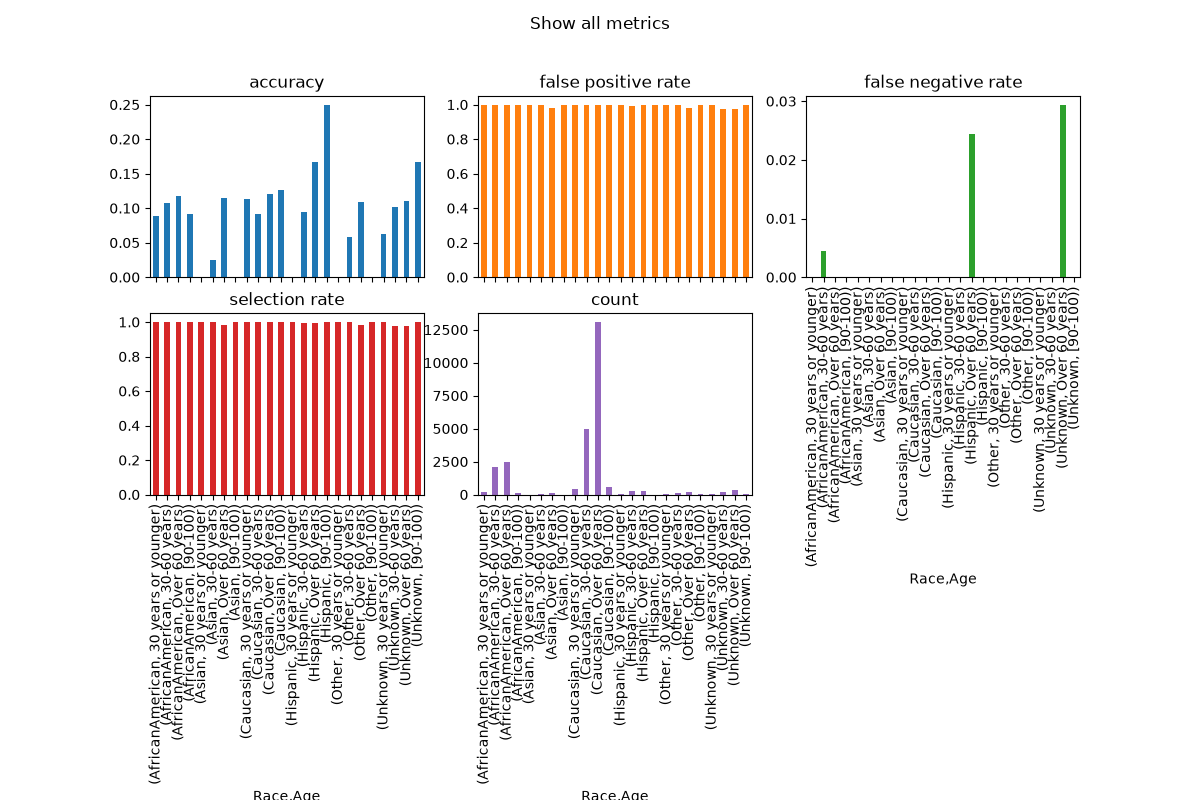
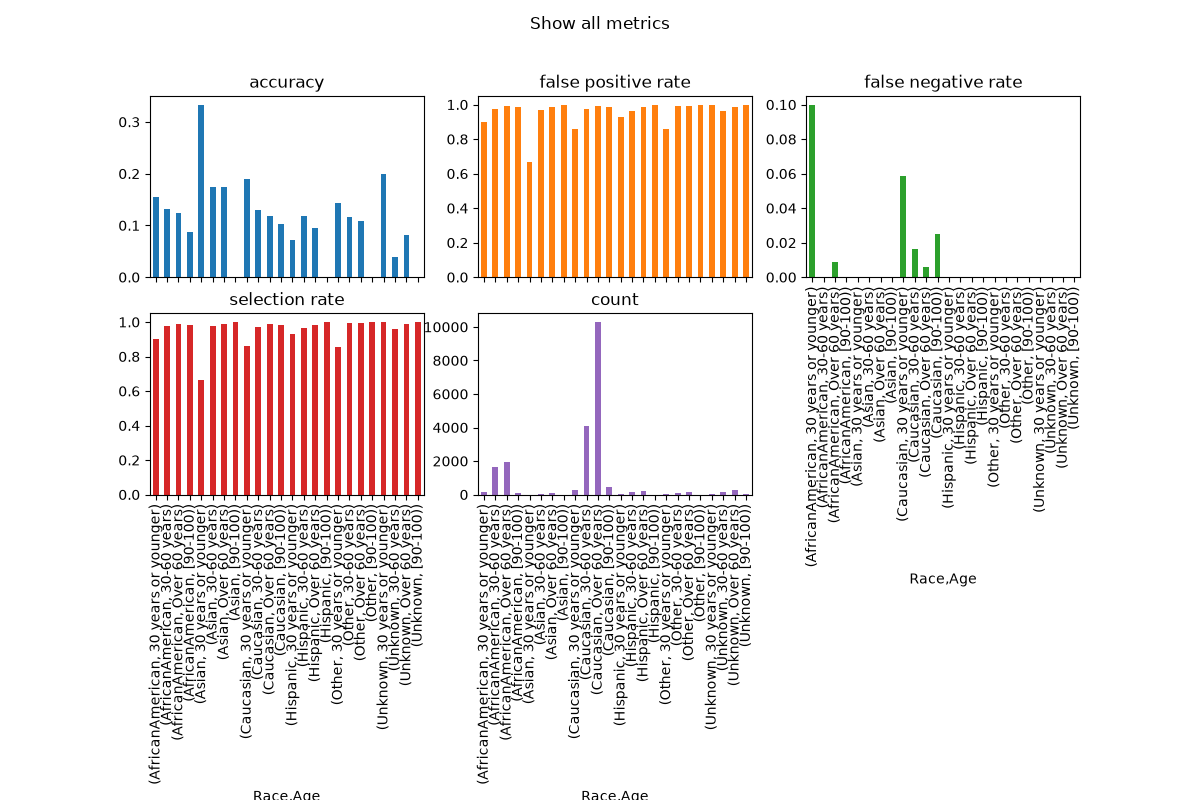
Returning the proper model in train function

diff --git a/src/main.py b/src/main.py
@@ -2,15 +2,15 @@ import fairlearn.postprocessing as post
 import numpy as np
 import pandas as pd
 from sklearn.pipeline import Pipeline
-from sklearn.tree import DecisionTreeClassifier
 from sklearn.linear_model import LogisticRegression
+from sklearn.preprocessing import StandardScaler
 from sklearn.model_selection import GroupShuffleSplit, train_test_split
 
-from .utils import feature_analysis, evaluate_model
+from .analysis import feature_analysis, evaluate_model
 
 SEED = 42  # set seed for consistent results
 np.random.seed(SEED)
-GSS = False
+GSS = True
 THRESHOLD = True
 
 
@@ -33,12 +33,17 @@ def transform_data(data):
     return patient_nbr, race, age, x_ohe, y
 
 def train_model(X_train, y_train, race_train, threshold=True):
-    model = LogisticRegression(max_iter=1000)
+    model = Pipeline([
+        ("scaler", StandardScaler()),
+        ("classifier", LogisticRegression(
+            max_iter=1000,
+            solver="lbfgs",
+            random_state=SEED,
+        ))
+    ])
     if threshold:
-        pipeline = Pipeline(steps=[("classifier", model)])
-
         threshold_optimizer = post.ThresholdOptimizer(
-            estimator=pipeline,
+            estimator=model,
             constraints="false_negative_rate_parity",
             objective="true_positive_rate",
             predict_method="predict_proba",
@@ -47,9 +52,8 @@ def train_model(X_train, y_train, race_train, threshold=True):
         model = threshold_optimizer.fit(X_train, y_train, sensitive_features=race_train)
         return model, threshold_optimizer
     else:
-        classifier = LogisticRegression(max_iter=1000)
-        classifier.fit(X_train, y_train)
-        return classifier, False
+        model.fit(X_train, y_train)
+        return model, False
 
 def train_test_split_data(patient_nbr,X_ohe, y, race, age, group_shuffle_split=True):
     if group_shuffle_split:

diff --git a/src/analysis.py b/src/analysis.py
@@ -11,6 +11,11 @@ from fairlearn.metrics import (
 from sklearn.metrics import accuracy_score, balanced_accuracy_score
 import matplotlib.pyplot as plt
 import fairlearn.metrics as fm
+from sklearn.metrics import (
+    roc_auc_score,
+    average_precision_score,
+    confusion_matrix,
+)
 
 
 SEED = 42
@@ -47,6 +52,13 @@ def evaluate_model(classifier, X_test, y_test, sensitive_data, threshold=False):
         )
     else:
         y_pred = classifier.predict_proba(X_test)[:, 1] >= 0.1
+        y_prob = classifier.predict_proba(X_test)[:, 1]
+        print("ROC-AUC:", roc_auc_score(y_test, y_prob))
+        print("Average precision:", average_precision_score(y_test, y_prob))
+
+    print("Confusion matrix:")
+    print(confusion_matrix(y_test, y_pred))
+    print("Predicted positive rate:", y_pred.mean())
 
     racemf = MetricFrame(
         metrics={
